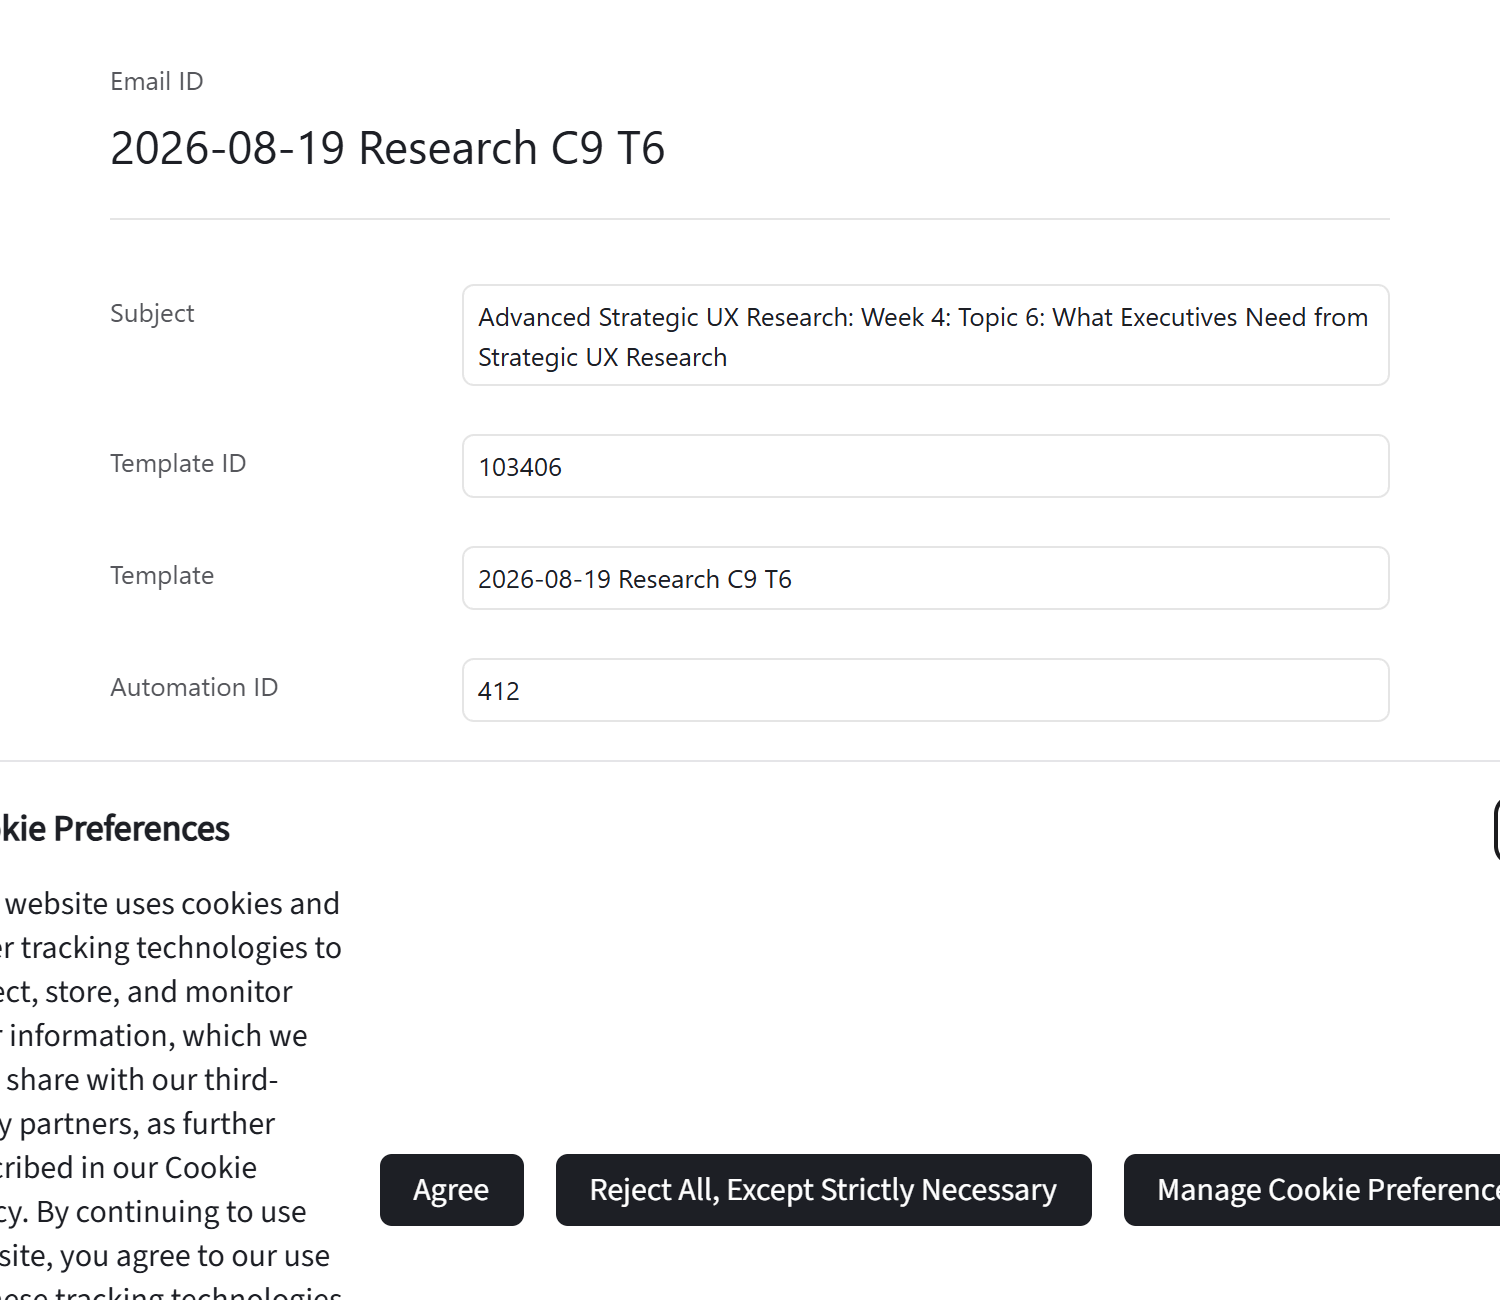
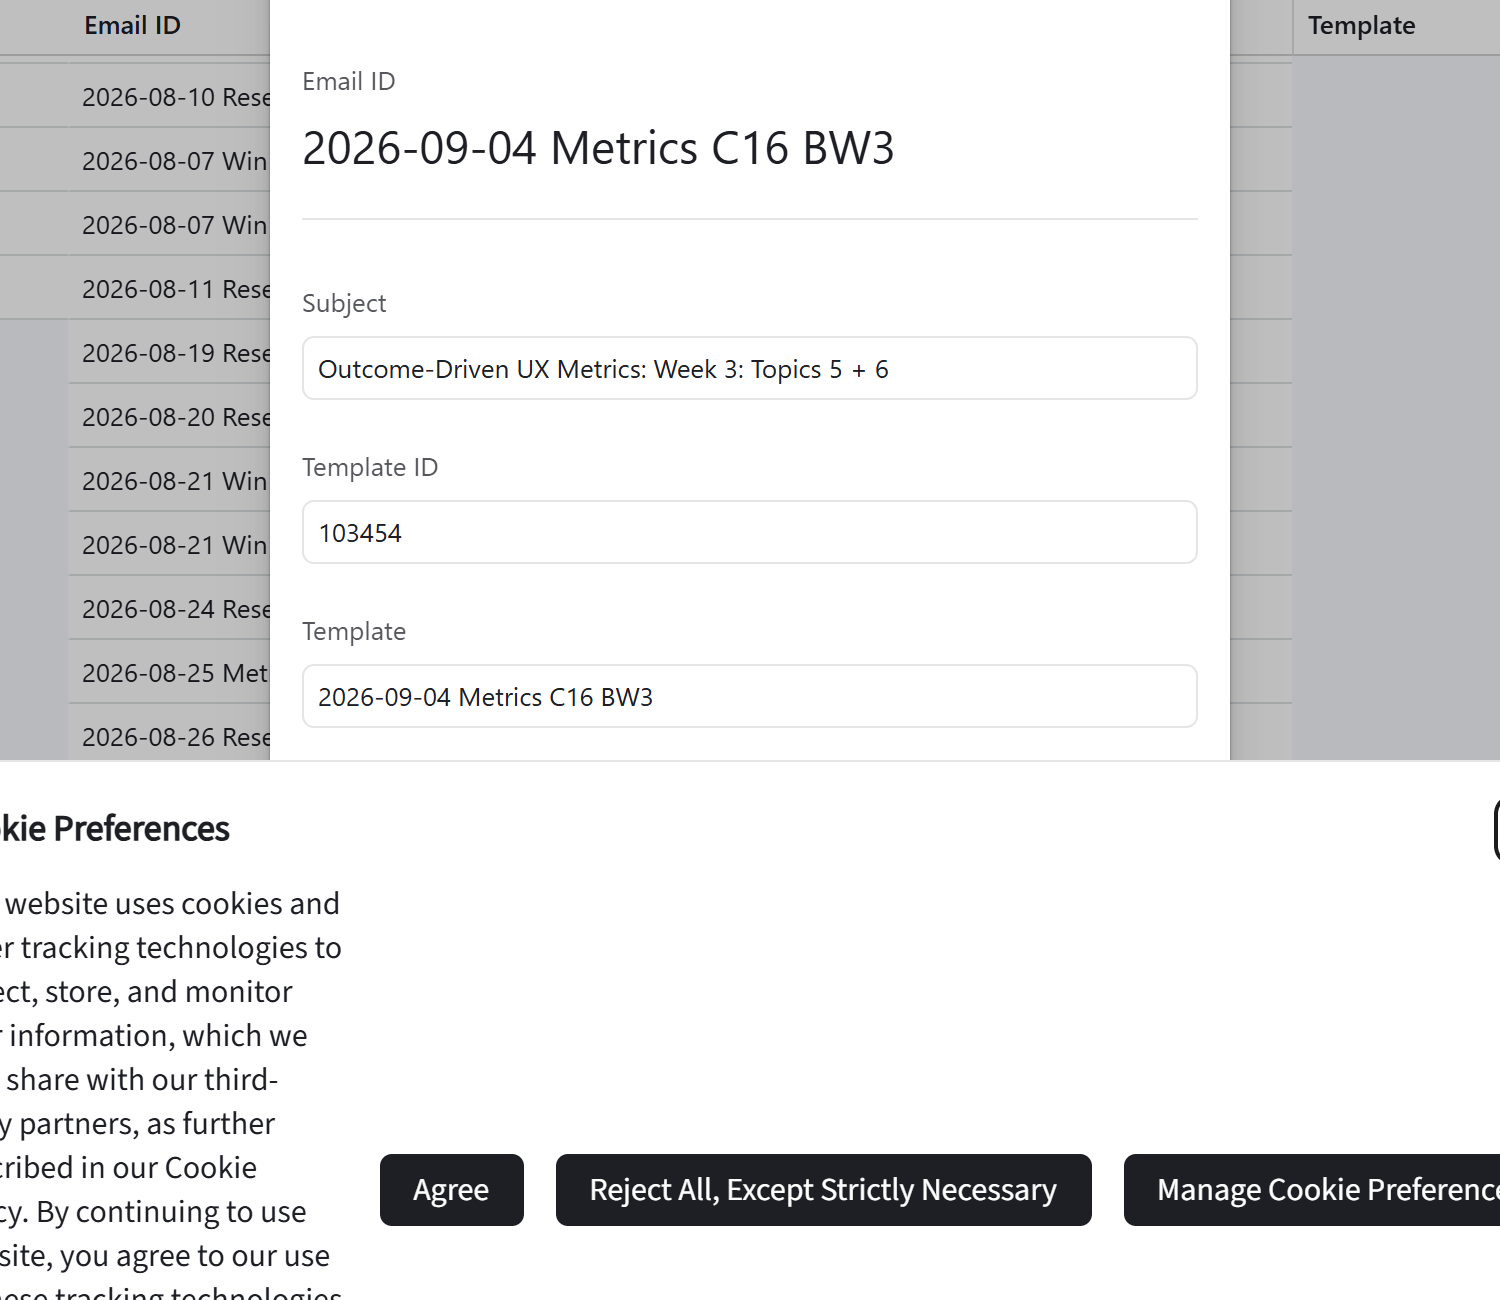
Added necessary information for TUXS emails referring to courses

diff --git a/config/email-settings/programs/tuxs.ts b/config/email-settings/programs/tuxs.ts
@@ -72,7 +72,7 @@ export const TUXS: Settings<ValuePart<any>> = {
             value: "UX Job Search: Stand Out in Today's Crazy, Crowded Job&nbsp;Market",
           },
           "Topic Course Link": {
-            value: "https://www.centercentre.com/ux-job-search",
+            value: "https://maven.com/centercentre/ux-jobs",
           },
       },
     },
@@ -82,7 +82,10 @@ export const TUXS: Settings<ValuePart<any>> = {
           value: "1529",
         },
         "Topic Type Course": {
-            value: "UX Job Search: Stand Out in Today's Crazy, Crowded Job Market",
+            value: "Outcome-Driven UX Metrics",
+          },
+          "Topic Course Link": {
+            value: "https://metrics.centercentre.com/",
           },
       },
     },
@@ -92,7 +95,10 @@ export const TUXS: Settings<ValuePart<any>> = {
           value: "1478",
         },
         "Topic Type Course": {
-            value: "UX Job Search: Stand Out in Today's Crazy, Crowded Job Market",
+            value: "Advanced Strategic UX Research",
+          },
+          "Topic Course Link": {
+            value: "https://ux-research.centercentre.com/",
           },
       },
     },
@@ -102,7 +108,10 @@ export const TUXS: Settings<ValuePart<any>> = {
           value: "1544",
         },
         "Topic Type Course": {
-            value: "UX Job Search: Stand Out in Today's Crazy, Crowded Job Market",
+            value: "UX Leadership and Influence",
+          },
+          "Topic Course Link": {
+            value: "https://influence.centercentre.com/",
           },
       },
     },
@@ -112,7 +121,10 @@ export const TUXS: Settings<ValuePart<any>> = {
           value: "1481",
         },
         "Topic Type Course": {
-            value: "UX Job Search: Stand Out in Today's Crazy, Crowded Job Market",
+            value: "Craft + Lead A Strategic UX Vision",
+          },
+          "Topic Course Link": {
+            value: "https://visions.centercentre.com/",
           },
       },
     },
@@ -122,7 +134,10 @@ export const TUXS: Settings<ValuePart<any>> = {
           value: "1508",
         },
         "Topic Type Course": {
-            value: "UX Job Search: Stand Out in Today's Crazy, Crowded Job Market",
+            value: "UX & Design for Today's AI Functionality",
+          },
+          "Topic Course Link": {
+            value: "https://maven.com/centercentre/uxai",
           },
       },
     },
